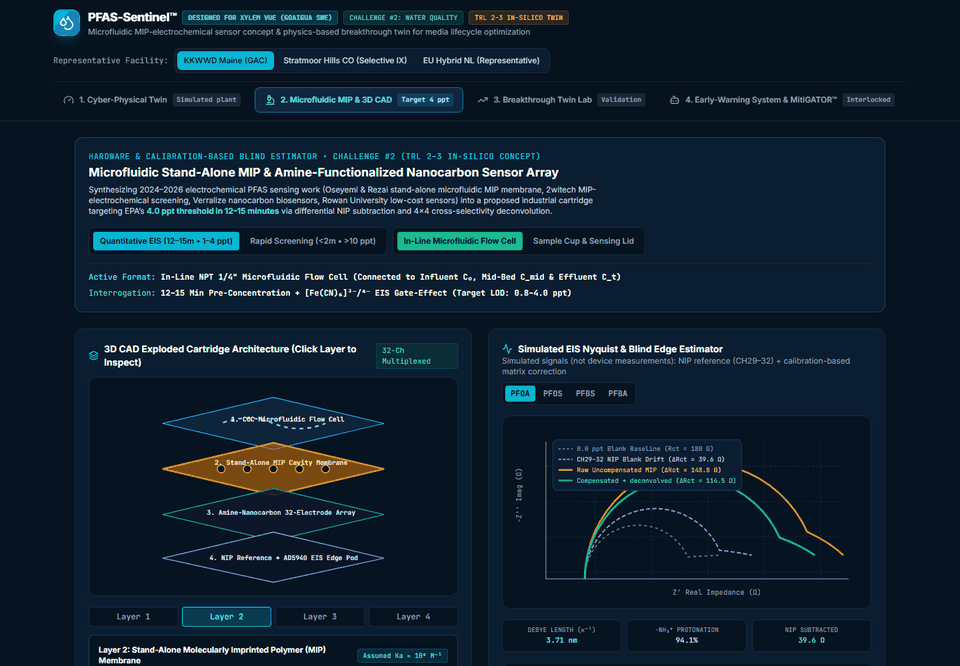
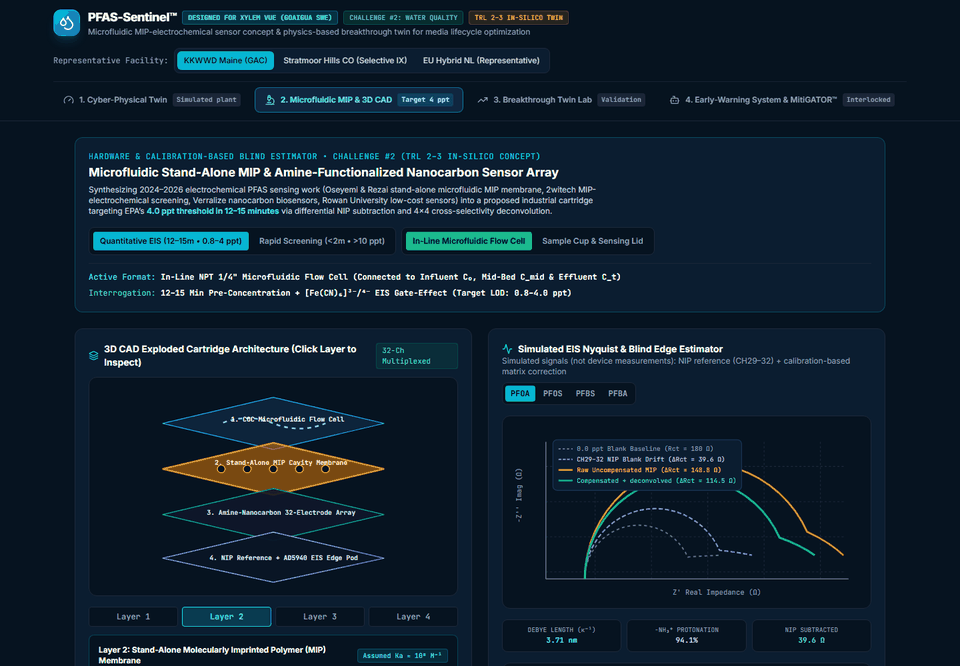
fix: drop the unsourced "hazardous" wording; retake the sensor screenshot
The README glossary, the README section 8 table and the Impact tab's
calculator called spent GAC/IX media "hazardous waste" or "hazardous
media". The project has no source for that classification, and the
pitch text and the slide deck already say "PFAS-laden spent media".
All three places now use that wording.

docs/screenshots/02-sensor.png dated from 5 Nov and still showed the
"1-4 ppt" button label that 78f186a changed to 0.8-4 ppt. It is retaken
with the same pipeline (headless Edge 1440x1000, scaled to 960x666).

README section 3.6 now names the sensor work listed as references 5 and
13-15, which the text never cited, and says that none of those devices
is part of this project. A stray space before a comma in the opening
note is removed.

No number changes.

Changed region(s): [[0.2188, 0.3303, 0.6562, 0.3904]]

diff --git a/src/components/BusinessAndPitchTab.tsx b/src/components/BusinessAndPitchTab.tsx
@@ -37,7 +37,7 @@ export const BusinessAndPitchTab: React.FC = () => {
   });
   const pfasSentinelSubscriptionAnnual = econ.fee;
   const netAnnualUtilitySavings = Math.round(econ.net);
-  const hazardousWasteAvoidedTons = Number(econ.mediaAvoidedTonnes.toFixed(1));
+  const mediaAvoidedTons = Number(econ.mediaAvoidedTonnes.toFixed(1));
   const ghgAvoidedTonsCo2 = Number(econ.co2AvoidedTonnes.toFixed(1));
   const ops = validationReport.operational;
   const abl = validationReport.ablation as Record<string, { pfoaPfos: { maeDays: number } }>;
@@ -211,7 +211,7 @@ export const BusinessAndPitchTab: React.FC = () => {
               Business Model Innovation • Performance-Based Servitization (Hardware-Enabled SaaS)
             </span>
             <h2 className="text-lg font-bold text-white mt-0.5">
-              Interactive Utility CAPEX/OPEX &amp; Secondary Hazardous Waste Calculator
+              Interactive Utility CAPEX/OPEX &amp; Spent-Media Calculator
             </h2>
           </div>
           <span className="px-3 py-1 rounded-lg text-xs font-mono bg-emerald-500/15 text-emerald-300 border border-emerald-500/30">
@@ -291,10 +291,10 @@ export const BusinessAndPitchTab: React.FC = () => {
             <div className="bg-[#061320] border border-cyan-500/40 rounded-xl p-4">
               <TrendingDown className="w-5 h-5 text-cyan-400 mb-1" />
               <span className="text-[11px] font-mono text-slate-400 uppercase block">
-                Spent Hazardous Media Avoided
+                Spent PFAS-Laden Media Avoided
               </span>
               <div className="text-2xl font-bold font-mono text-cyan-300 mt-1">
-                {hazardousWasteAvoidedTons} Tons/yr
+                {mediaAvoidedTons} Tons/yr
               </div>
               <span className="text-[11px] text-slate-400 block mt-1">
                 Prevents premature disposal of PFAS-laden GAC/IX

diff --git a/src/data/glossary.ts b/src/data/glossary.ts
@@ -29,7 +29,7 @@ export const GLOSSARY: GlossaryGroup[] = [
         meaning:
           'Granular activated carbon and selective ion-exchange resin: the two main media used in pressure vessels to remove PFAS from drinking water.',
         whyItMatters:
-          'Both get "used up" over time and must be replaced; replacing too early wastes money and creates hazardous waste.',
+          'Both get "used up" over time and must be replaced; replacing too early wastes money and creates more PFAS-laden spent media to dispose of.',
       },
       {
         term: 'Lead-lag train',

diff --git a/README.md b/README.md
@@ -28,7 +28,7 @@
 > PFAS-Sentinel is an independent student project. It is designed for compatibility with Xylem products (Xylem Vue, YSI EXO2, Sensus, Evoqua, MitiGATOR™), but it is not developed, endorsed, or validated by Xylem Inc. All trademarks belong to their respective owners.
 
 > [!IMPORTANT]
-> **Every number in this README comes from simulation, except Section 3.8.** A hidden "virtual plant" generates the data; the twin and the sensor estimator never see its parameters. No physical sensor has been built. Section 3.8 is the only part that uses measured data: the twin, unchanged, on a public U.S. EPA pilot dataset, on a full-scale lead-lag plant with a mid-bed port and on EPA anion-exchange columns tested under a pre-registered protocol — with mixed results that are reported in full. Figures are reproduced by `python simulation/validation_report.py` , `python simulation/external_validation.py`, `python simulation/external_validation_fullscale.py`, `python simulation/external_validation_aex.py` and `python simulation/external_validation_aex_a2.py`, and checked by the test suites (CI recomputes every number).
+> **Every number in this README comes from simulation, except Section 3.8.** A hidden "virtual plant" generates the data; the twin and the sensor estimator never see its parameters. No physical sensor has been built. Section 3.8 is the only part that uses measured data: the twin, unchanged, on a public U.S. EPA pilot dataset, on a full-scale lead-lag plant with a mid-bed port and on EPA anion-exchange columns tested under a pre-registered protocol — with mixed results that are reported in full. Figures are reproduced by `python simulation/validation_report.py`, `python simulation/external_validation.py`, `python simulation/external_validation_fullscale.py`, `python simulation/external_validation_aex.py` and `python simulation/external_validation_aex_a2.py`, and checked by the test suites (CI recomputes every number).
 
 ### How PFAS-Sentinel addresses the judging criteria
 | Criterion | Where to look |
@@ -111,7 +111,7 @@ The project uses specialist vocabulary from water treatment, electrochemistry an
 | Term | What it is | Why it matters here |
 | :--- | :--- | :--- |
 | **PFAS (short-chain C4 vs long-chain C8)** | Per- and polyfluoroalkyl substances, "forever chemicals". The number is the length of the carbon chain: PFBA/PFBS have 4 carbons, PFOA/PFOS have 8. | Short chains stick to carbon weakly and move through the filter first; long chains stick strongly and are the ones the US limit (4 ppt) targets. |
-| **GAC / Selective IX** | Granular activated carbon and selective ion-exchange resin: the two main media used in pressure vessels to remove PFAS from drinking water. | Both get "used up" over time and must be replaced; replacing too early wastes money and creates hazardous waste. |
+| **GAC / Selective IX** | Granular activated carbon and selective ion-exchange resin: the two main media used in pressure vessels to remove PFAS from drinking water. | Both get "used up" over time and must be replaced; replacing too early wastes money and creates more PFAS-laden spent media to dispose of. |
 | **Lead-lag train** | Two vessels in series. The lead vessel does most of the work; the lag vessel polishes and acts as a safety barrier. | When the lead vessel is spent, valves swap the roles and only the lead media is replaced. Timing this swap is the decision PFAS-Sentinel supports. |
 | **Mid-bed port (z/L = 0.50)** | A sampling tap halfway down the vessel. z is the depth from the top, L the total bed depth, so z/L = 0.50 is the middle. | Contaminants reach the middle months before the outlet, so a reading here is an early look at what the outlet will see later. |
 | **Mass Transfer Zone (MTZ)** | The band of media that is actively adsorbing. Above it the media is saturated; below it the media is still clean. | The MTZ moves down the bed like a slow wave. Tracking its position is what lets the twin forecast when the outlet will exceed the limit. |
@@ -254,6 +254,8 @@ Two findings: sharing the bed condition across species gives by far the largest 
 This supports the timing logic. It does **not** measure the 28% bed-life figure, which depends on how conservative each utility is today and must be measured in the pilot.
 
 ### 3.6 Sensor model and blind estimator
+The cartridge is a concept. It is inspired by published MIP-electrochemical PFAS sensing work: a microfluidic electrochemical sensor with a molecularly imprinted polymer membrane (Oseyemi & Rezai 2026), a portable MIP-electrochemical screening device (2witech), a company-reported portable nanocarbon sensor (Verralize) and NSF-backed low-cost sensor research (Rowan University); see references 5 and 13–15. None of these devices is part of this project, and the figures below are design assumptions and model outputs.
+
 - **Four independent group signals.** Each of the four 7-electrode groups responds to all four PFAS through the cross-selectivity matrix $S$ (a design assumption, 3–15% cross-binding); the NIP blanks see drift and fouling but no specific binding.
 - **Blind, calibration-based estimator.** The estimator never uses the simulator's formulas or true concentrations. It learns (a) a sensitivity matrix $\hat A$ from pure standards at a reference matrix (3 replicates × 6 levels × 4 species) and (b) offset and gain corrections from blank/spike runs in 48 water matrices, both anchored to the reference. It then solves $\hat x = (\hat A^\top \hat A + \lambda I)^{-1}\hat A^\top y$ and converts $\hat x = \ln(1 + c)$ to ppt.
 - **Conditioning (computed):** $\kappa_2(S) = 1.627$, $\det S = 0.940$, $\kappa_2(\hat A) = 1.756$.
@@ -564,7 +566,7 @@ Assumptions (single source: [`src/data/economics.ts`](src/data/economics.ts), al
 | Lab savings (quarterly LC-MS/MS retained) | 85% × \$65,520 | +\$55,692 |
 | PFAS-Sentinel service fee (SaaS + cartridges) | 6 × \$14,400 | −\$86,400 |
 | **Net utility savings** | | **+\$112,092** |
-| Hazardous media avoided | 6 × 9.1 t × 28% | **15.3 t** |
+| Spent media avoided | 6 × 9.1 t × 28% | **15.3 t** |
 | Emissions avoided | 15.3 t × 2.4 | **36.7 tCO₂e** |
 
 ### 8.1 Sensitivity: how much depends on the 28% assumption?
